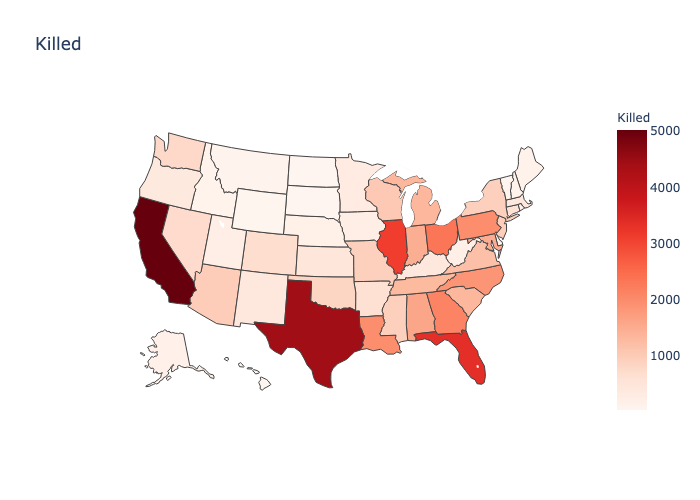
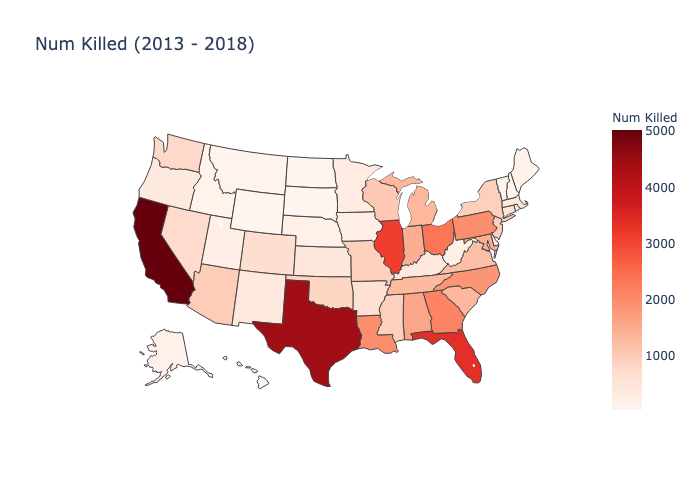
added to title for maps

diff --git a/analysis/display_map.py b/analysis/display_map.py
@@ -115,9 +115,7 @@ def visualize_pts(data, feature_columns=["",""]):
     :param centroid_indices: 1D numpy array of centroid indices for each data point in data
     :return:
     """
-    
-    # x, y = np.hsplit(data, 2)
-    
+        
     x = data[feature_columns[0]]
     y = data[feature_columns[1]]
 
@@ -126,11 +124,11 @@ def visualize_pts(data, feature_columns=["",""]):
         z=y, # Data to be color-coded
         locationmode = 'USA-states', # set of locations match entries in `locations`
         colorscale = 'Reds',
-        colorbar_title = feature_columns[1],
+        colorbar_title = "Avg " + feature_columns[1],
     ))
 
     fig.update_layout(
-        title_text = feature_columns[1],
+        title_text = "Avg " + feature_columns[1] + " (2013 - 2018)",
         geo_scope='usa', # limite map scope to USA
     )
 
@@ -153,12 +151,13 @@ if __name__ == '__main__':
     data.loc[:, "State"] = data.loc[:, "State"].apply(standardized_state)
 
     # aggragate data by state "Killed",  "Injured", "Population", "NumIncidents"
-    raw_data = data.groupby('State')["Killed",  "Injured", "Population", "NumIncidents"].sum()
+    raw_data = data.groupby('State')["Killed",  "Injured", "Population", "NumIncidents", "TotalArea", "LandArea"].sum()
     raw_data['HousingPrice'] = data.groupby('State')["HousingPrice"].mean()
     raw_data['State'] = data.groupby('State').groups.keys()
     
     # add extra fields 
-    raw_data['GVRate'] = raw_data['NumIncidents'] / raw_data['Population']
+    raw_data['PopDensity'] = raw_data['Population'] / raw_data['TotalArea']
+    raw_data['GVRate'] = raw_data['NumIncidents'] / raw_data['PopDensity']
     
    
     feature_columns = ["State","HousingPrice"]
